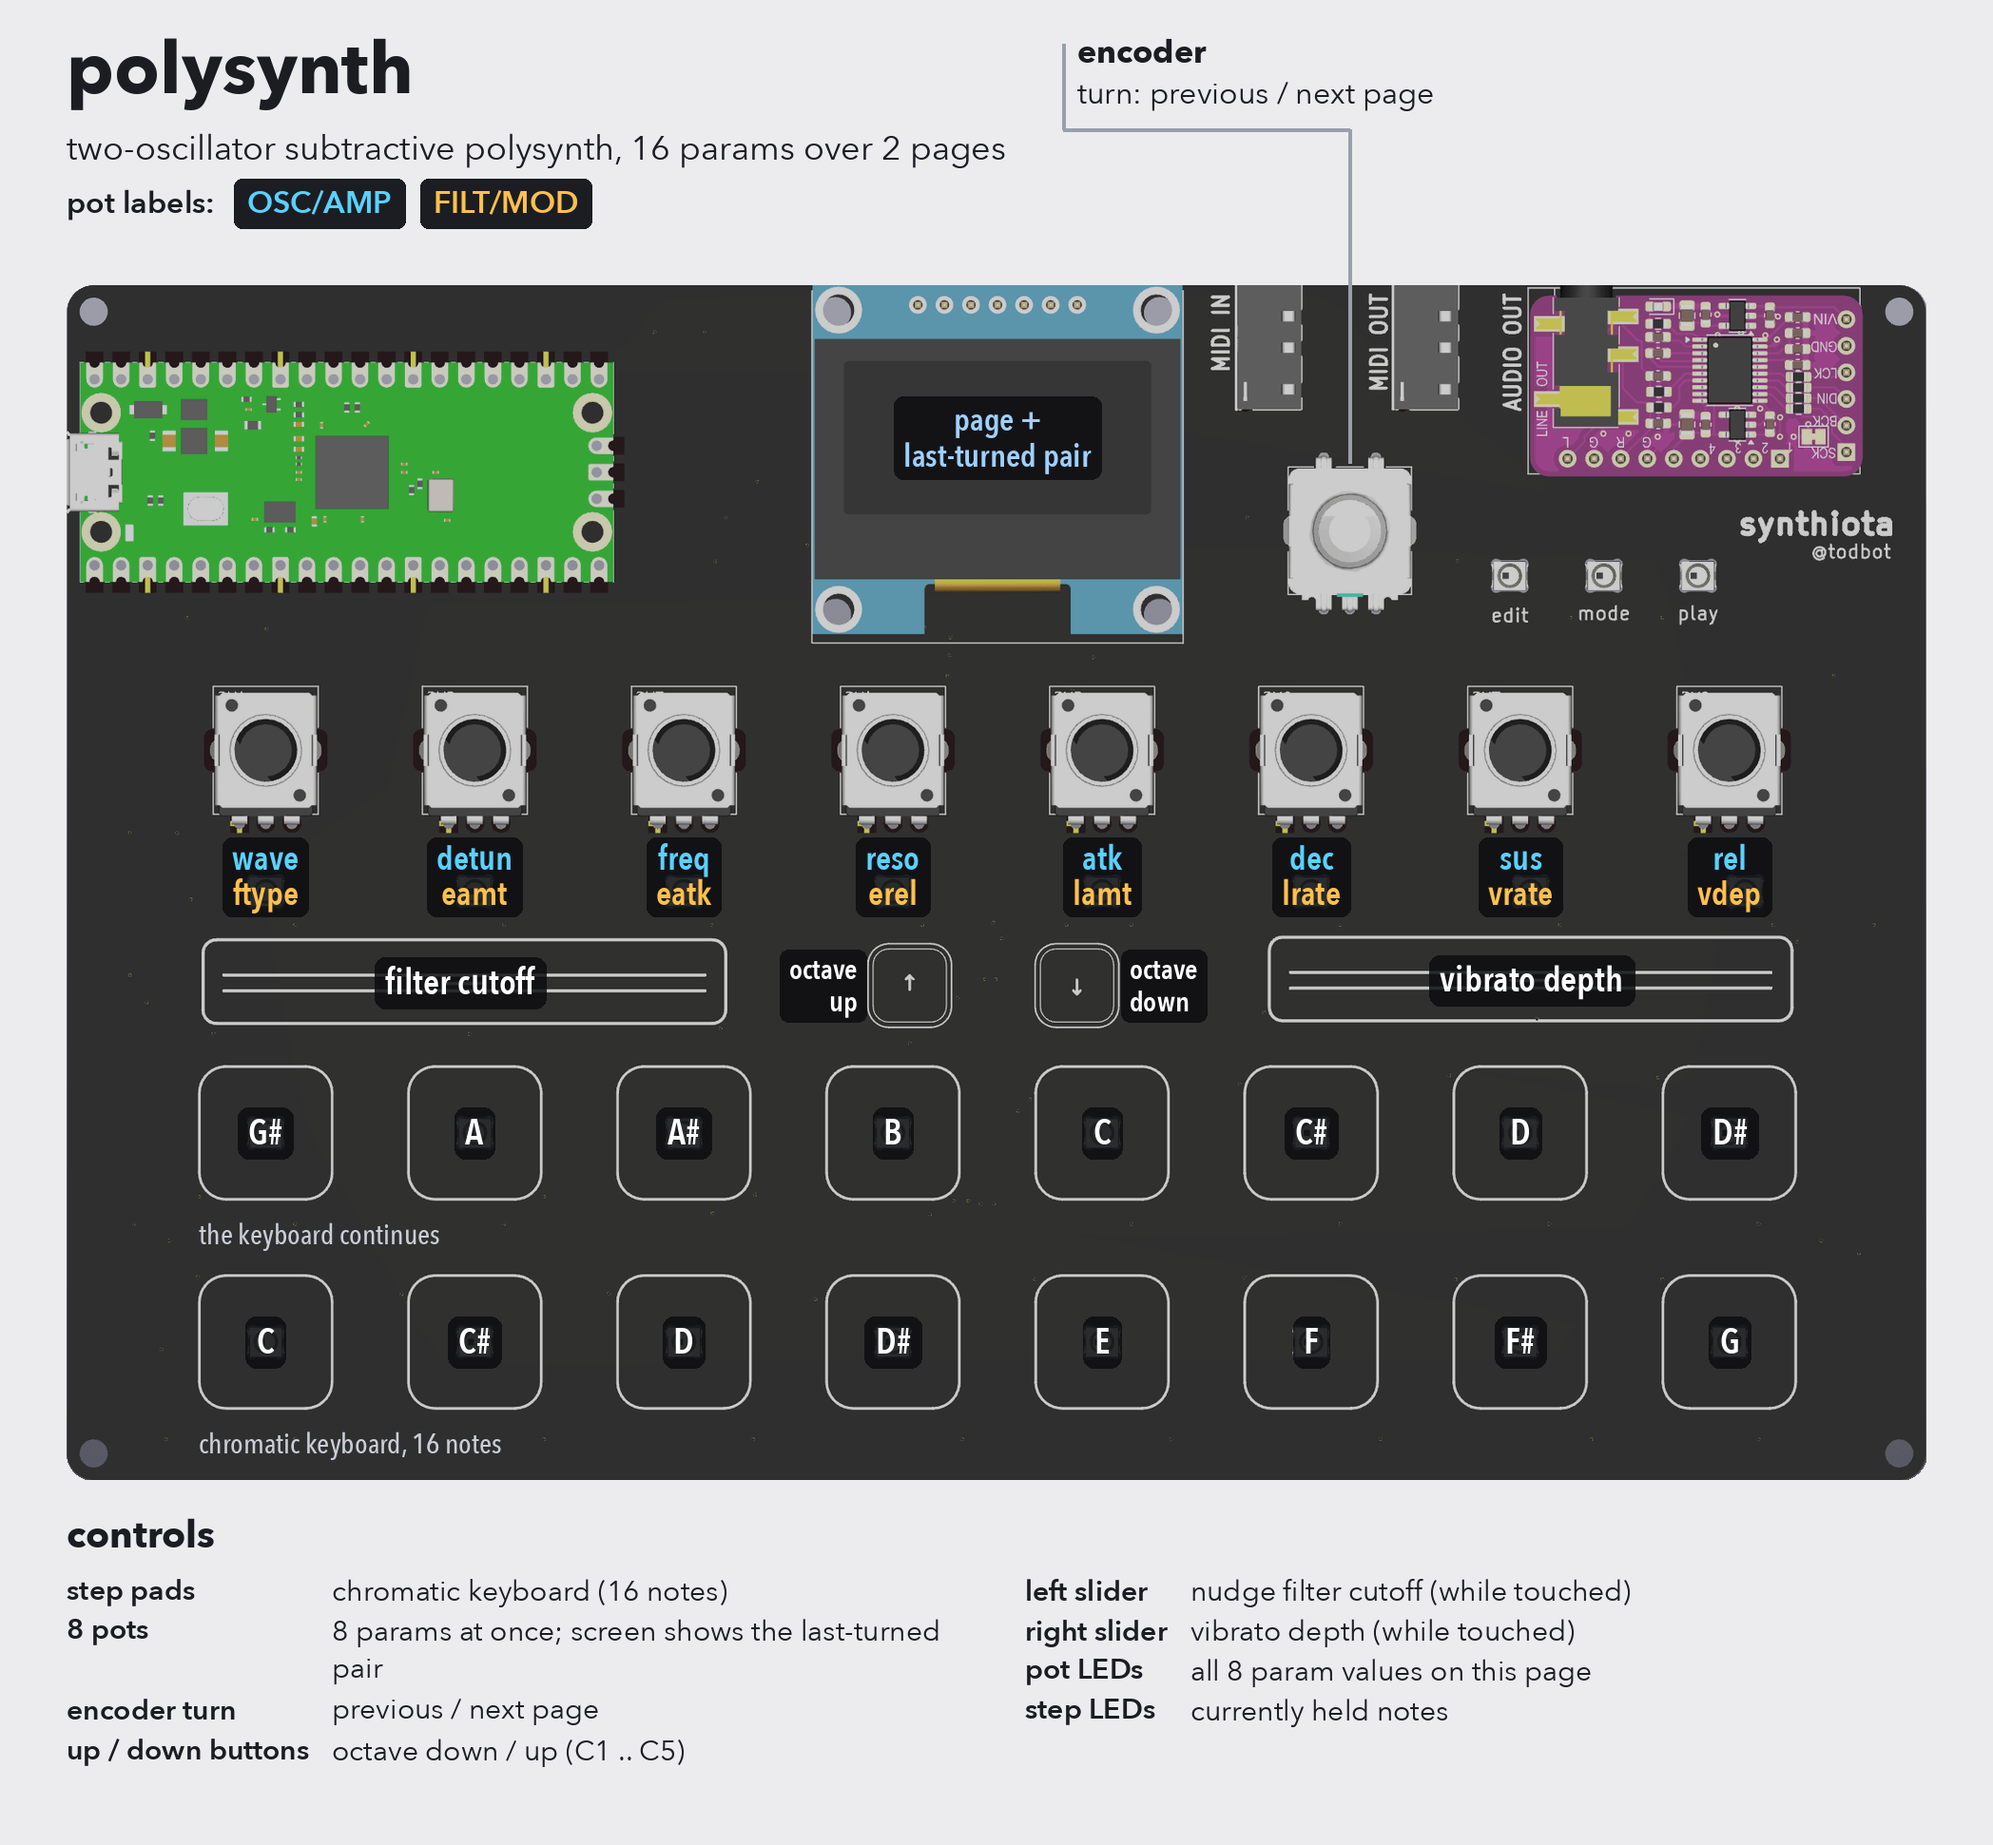
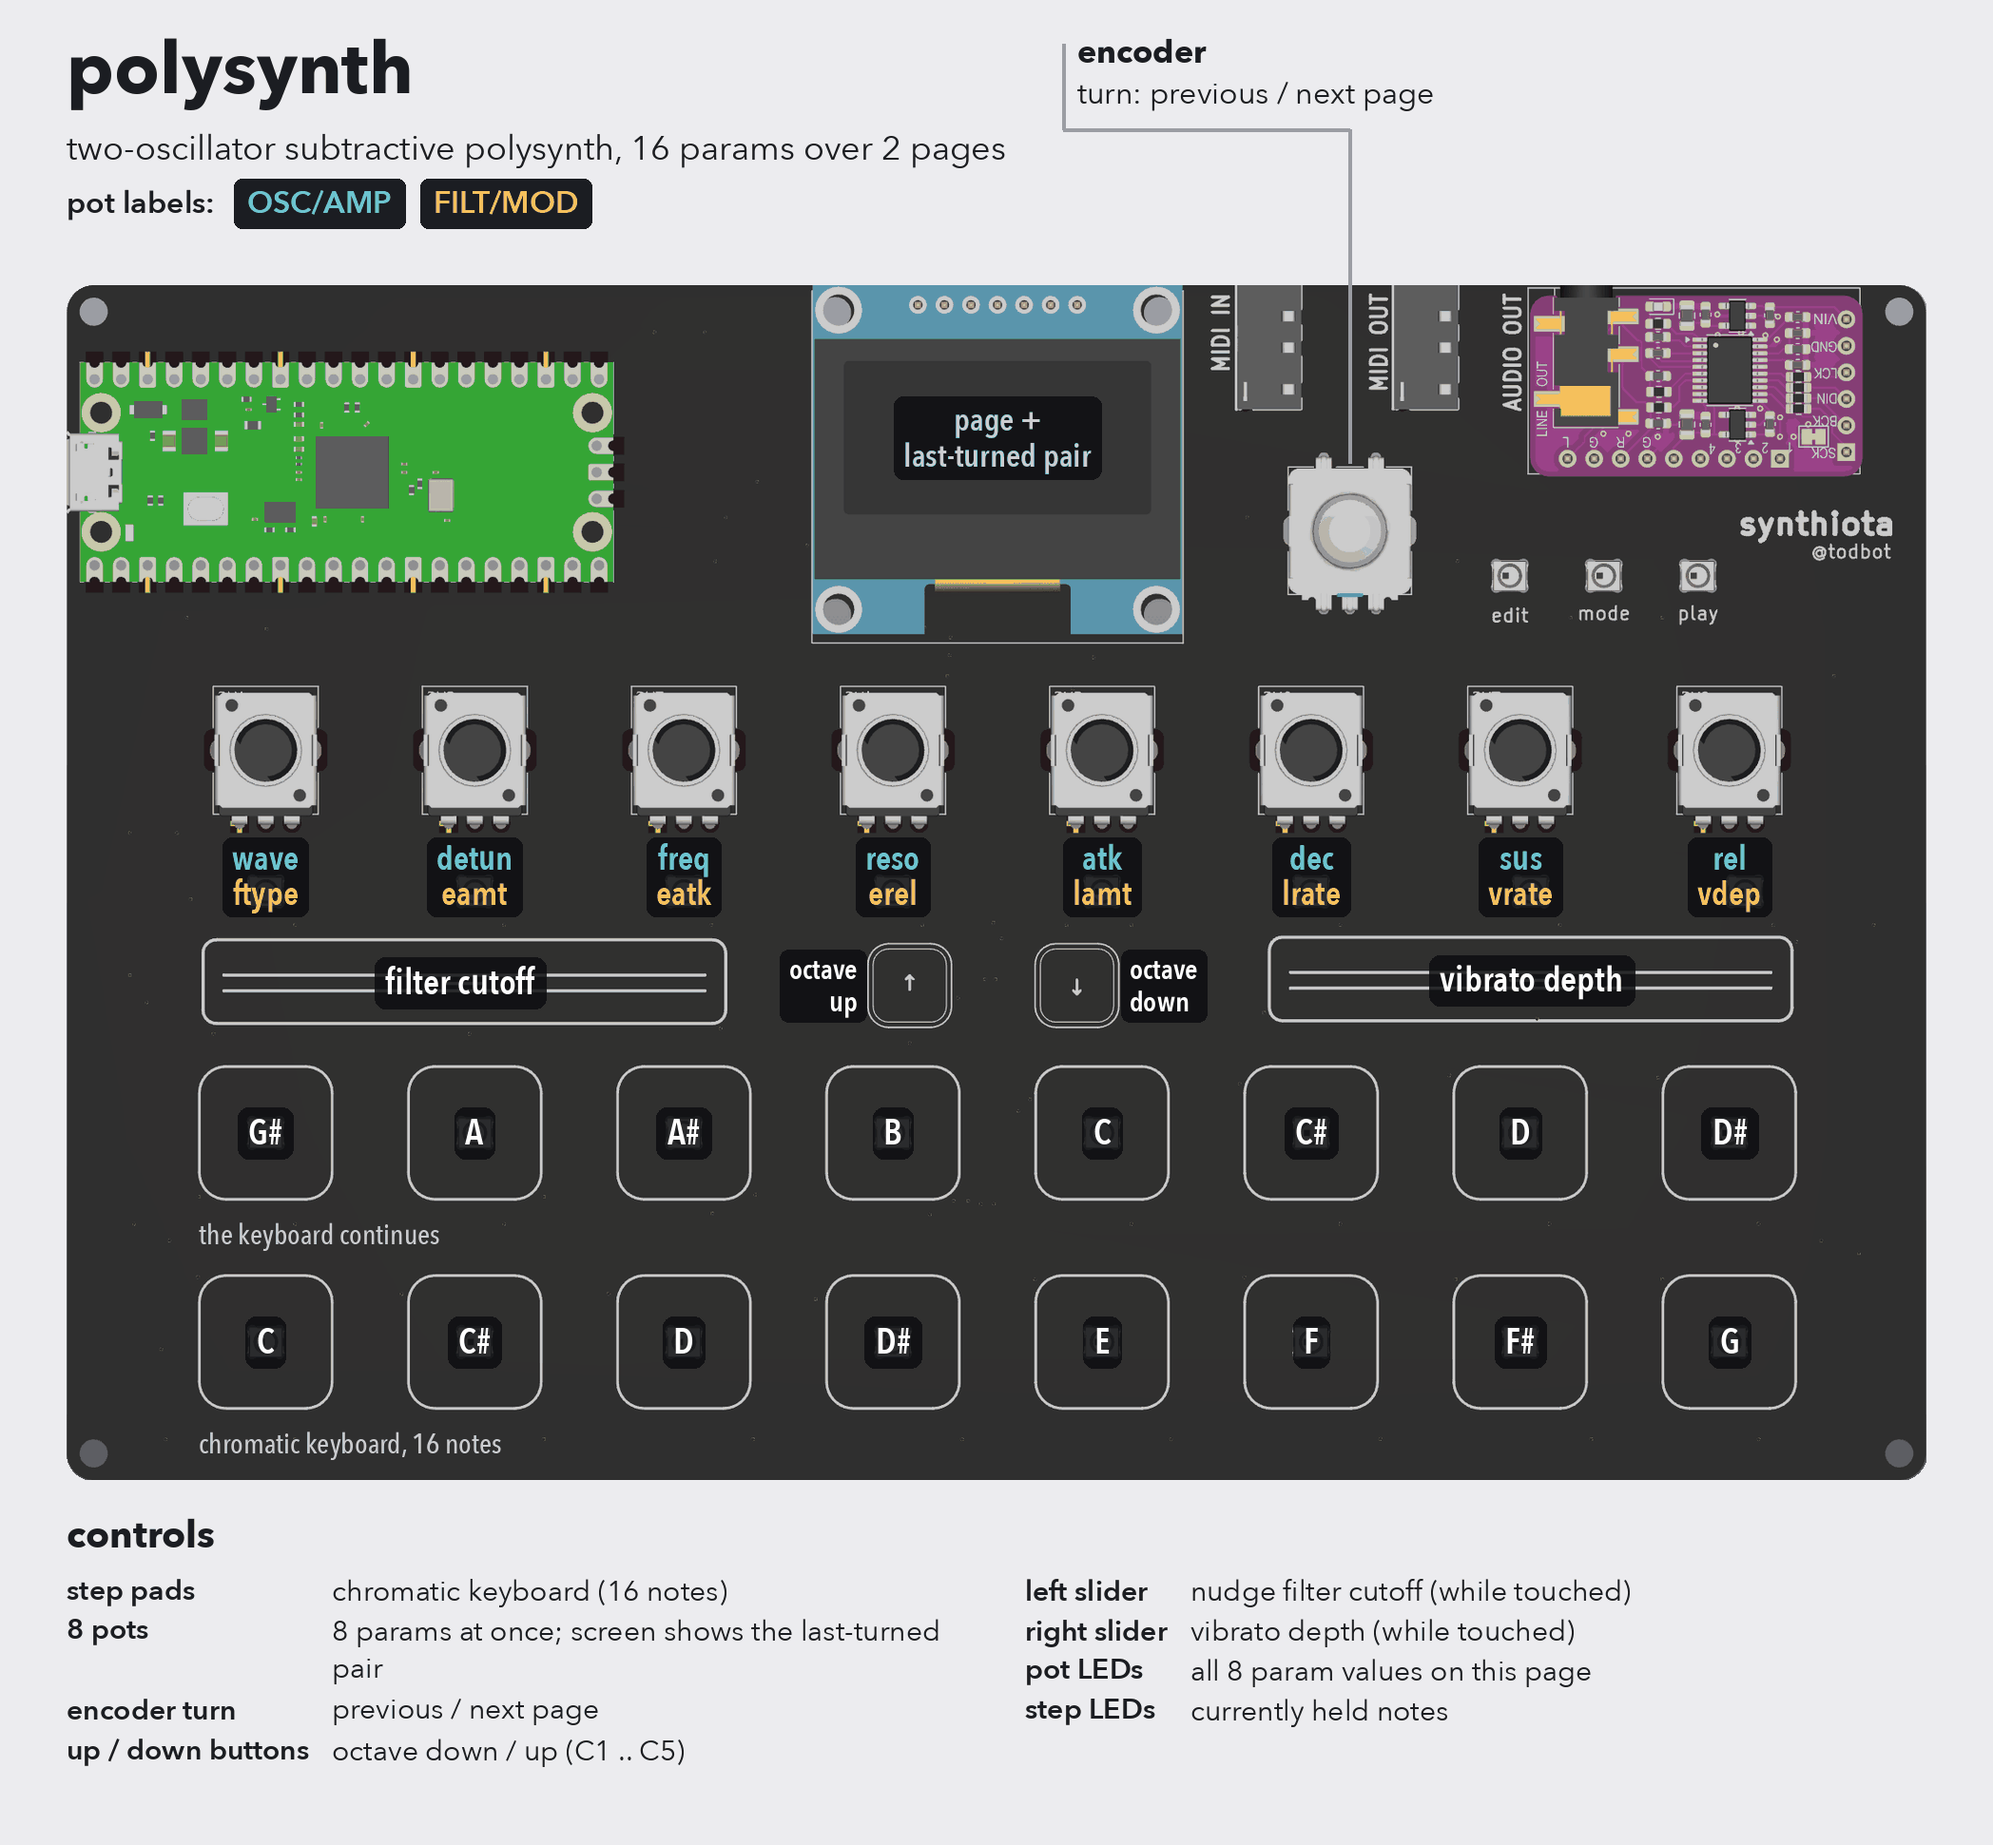
shrinkify images

diff --git a/docs/controls/make_controls.py b/docs/controls/make_controls.py
@@ -516,7 +516,8 @@ def draw_app(name, app):
                 y += line_h
 
     out = HERE / (name + ".png")
-    img.save(out, optimize=True)
+    # a 128-colour palette is a third the size and looks the same
+    img.quantize(128, method=Image.Quantize.MEDIANCUT).save(out, optimize=True)
     print(out, img.size)
 
 
